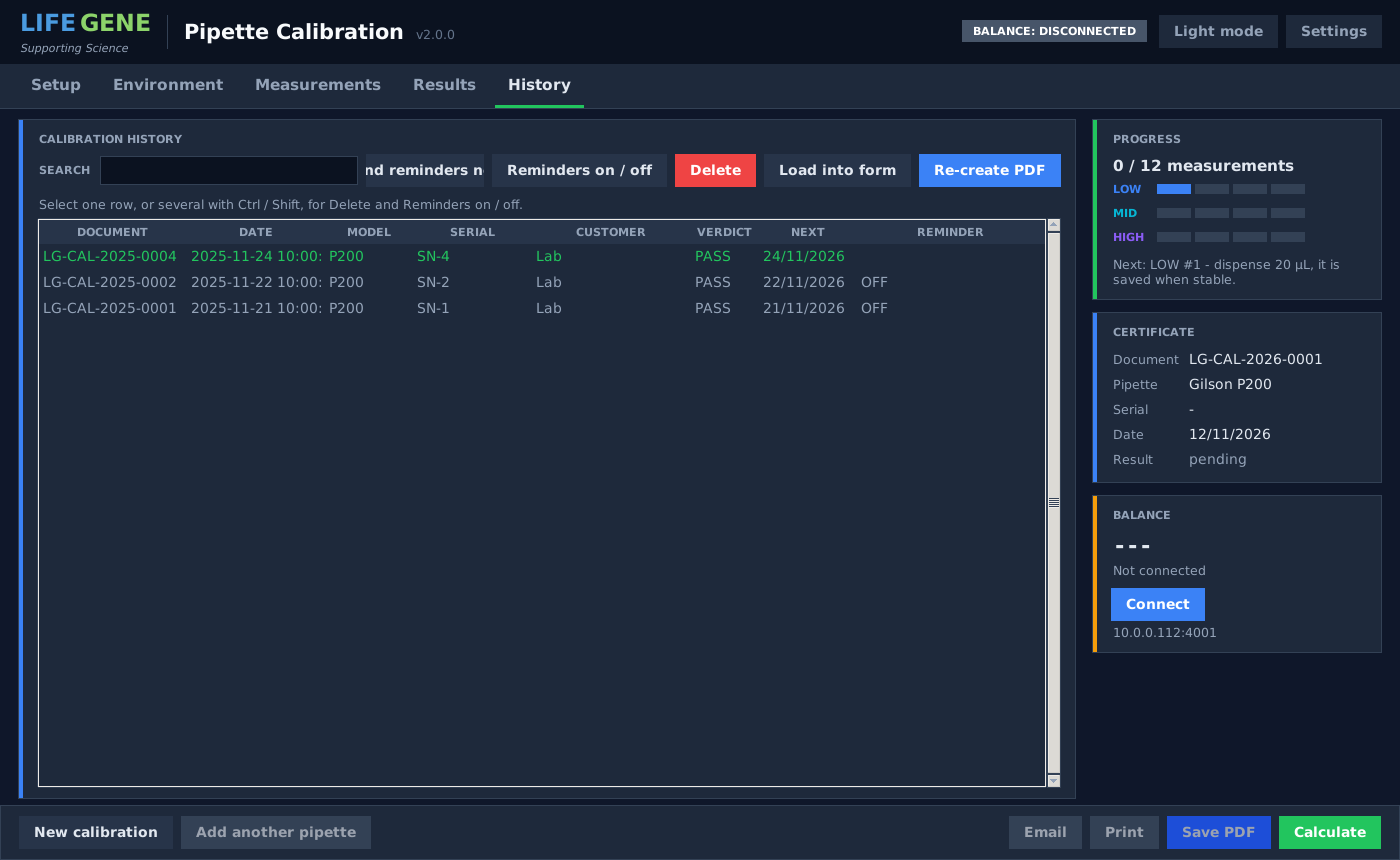
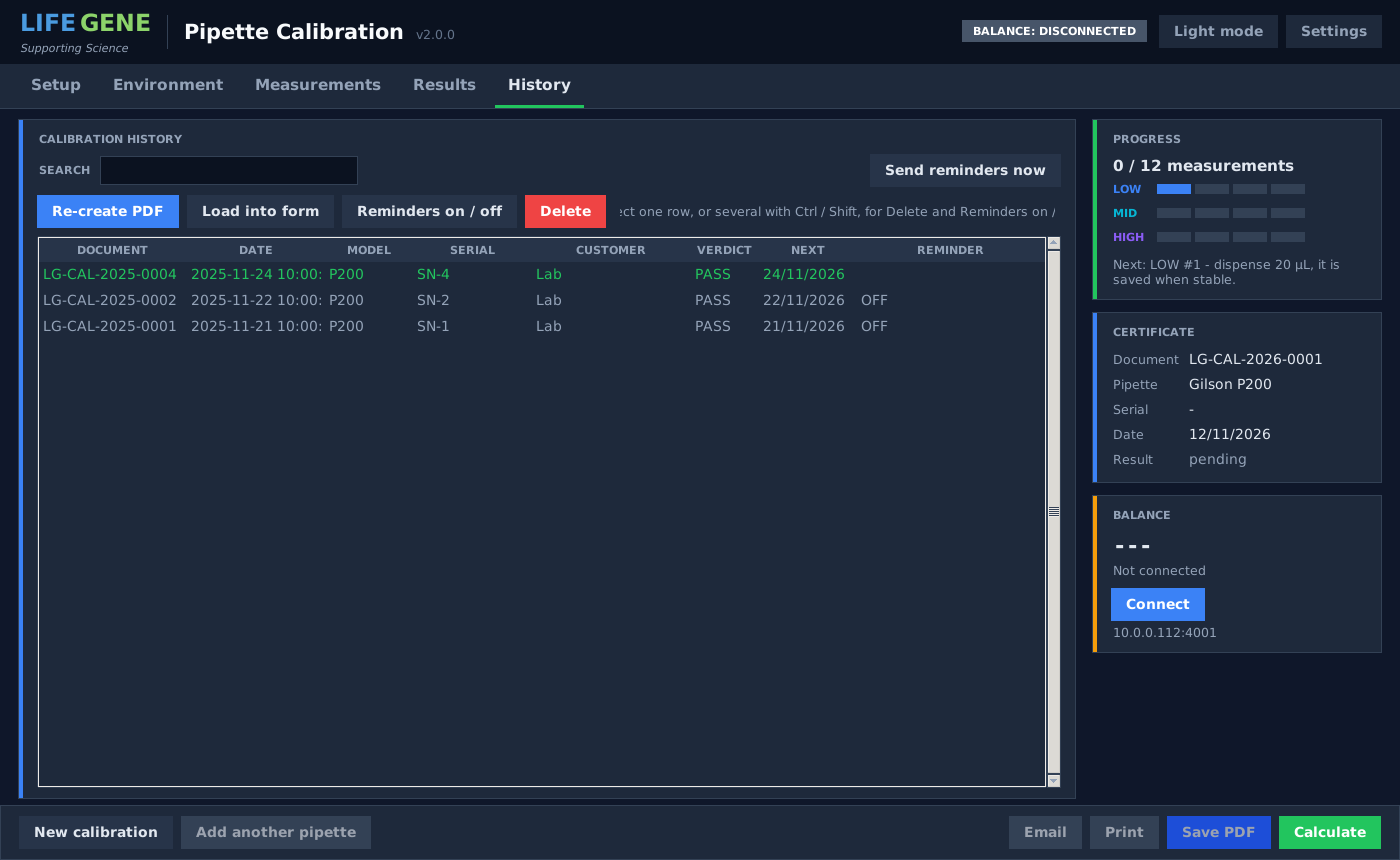
History: actions on their own row
Claude-Session: https://claude.ai/code/session_01DKbKsLg9aKj7DGaBzZdUqk

Changed region(s): [[0.0, 0.1814, 0.7679, 0.393]]

diff --git a/pipette-calibration/pipette_cal/app.py b/pipette-calibration/pipette_cal/app.py
@@ -722,15 +722,17 @@ class App(tk.Tk):
         e = self._entry(top, self.v_search, width=28)
         e.pack(side="left", padx=8, ipady=3)
         e.bind("<KeyRelease>", lambda ev: self._refresh_history())
-        Button(top, self, "Re-create PDF", self._history_pdf, "primary").pack(side="right")
-        Button(top, self, "Load into form", self._history_load, "secondary").pack(side="right", padx=8)
-        Button(top, self, "Delete", self._history_delete, "danger").pack(side="right")
-        Button(top, self, "Reminders on / off", self._history_toggle_reminder, "secondary").pack(side="right", padx=8)
         Button(top, self, "Send reminders now", lambda: self._run_reminders(silent=False), "secondary").pack(side="right")
         self.reminder_info = tk.Label(top, text="", bg=p["surface"], fg=p["muted"], font=self.f_small)
         self.reminder_info.pack(side="right", padx=10)
-        tk.Label(card.body, text="Select one row, or several with Ctrl / Shift, for Delete and Reminders on / off.",
-                 bg=p["surface"], fg=p["muted"], font=self.f_small).pack(anchor="w", pady=(0, 4))
+        actions = tk.Frame(card.body, bg=p["surface"])
+        actions.pack(fill="x", pady=(0, 8))
+        Button(actions, self, "Re-create PDF", self._history_pdf, "primary").pack(side="left")
+        Button(actions, self, "Load into form", self._history_load, "secondary").pack(side="left", padx=8)
+        Button(actions, self, "Reminders on / off", self._history_toggle_reminder, "secondary").pack(side="left")
+        Button(actions, self, "Delete", self._history_delete, "danger").pack(side="left", padx=8)
+        tk.Label(actions, text="Select one row, or several with Ctrl / Shift, for Delete and Reminders on / off.",
+                 bg=p["surface"], fg=p["muted"], font=self.f_small).pack(side="left", padx=6)
         cols = ("document", "date", "model", "serial", "customer", "verdict", "next", "reminder")
         self.history_tree = ttk.Treeview(card.body, columns=cols, show="headings", selectmode="extended")
         for c, w in zip(cols, (140, 130, 80, 110, 150, 60, 90, 180)):
